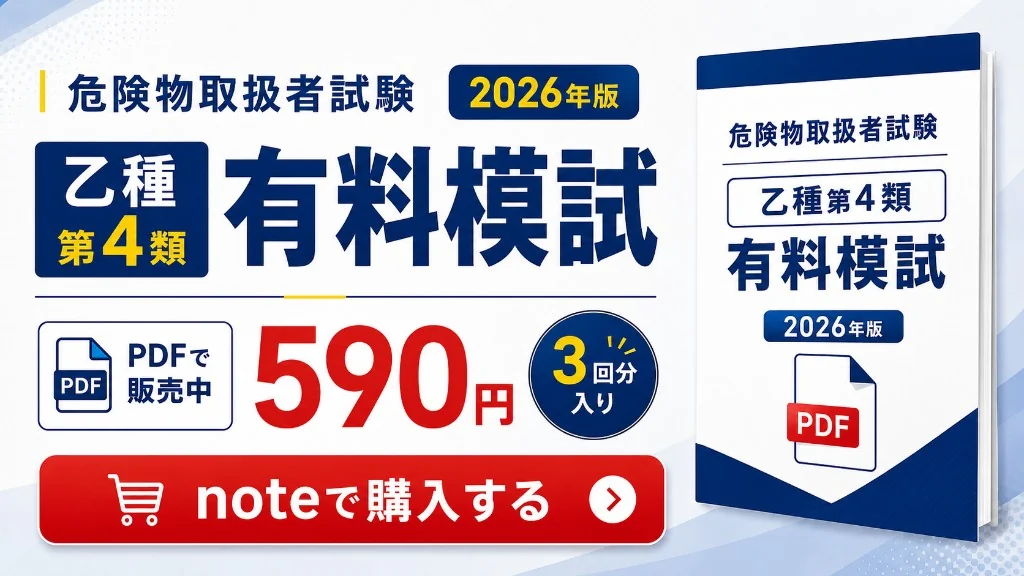
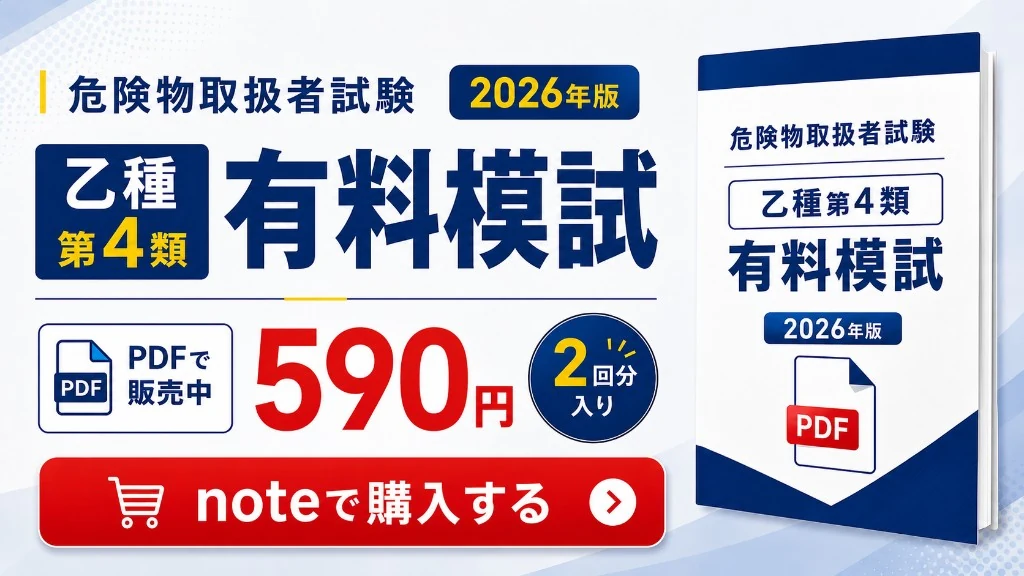
feat: 有料模試バナーを2回分の新画像に差し替え
バナー表記に合わせ、回数表示を3回から2回へ更新する。

diff --git a/site-config.js b/site-config.js
@@ -150,14 +150,14 @@ window.SITE_CONFIG = {
   },
   "paidMockExam": {
     "url": "https://note.com/shikaku_master/n/naae31abe01ed",
-    "modeTitle": "予想模試（PDF・3回分）",
+    "modeTitle": "予想模試（PDF・2回分）",
     "modePurpose": "本番と同じ35問・2時間で実力確認したい",
     "priceLabel": "¥590",
-    "scoreMeta": "PDF・3回分",
+    "scoreMeta": "PDF・2回分",
     "scoreLead": "本番形式の予想模試",
     "bannerImage": "images/affiliate/kikenbutsu-paid-mock-note-banner.webp",
-    "bannerAlt": "危険物取扱者試験 乙種第4類 有料模試 2026年版｜590円｜PDF・3回分｜noteで購入する",
-    "footnote": "※ note で販売する有料コンテンツ（¥590・3回分）です。サイト内の無料演習とは別商品です。"
+    "bannerAlt": "危険物取扱者試験 乙種第4類 有料模試 2026年版｜590円｜PDF・2回分｜noteで購入する",
+    "footnote": "※ note で販売する有料コンテンツ（¥590・2回分）です。サイト内の無料演習とは別商品です。"
   },
   "coursePromo": {
     "url": "https://t.afi-b.com/visit.php?a=y7404W-M7354874_f&p=P984775K",
